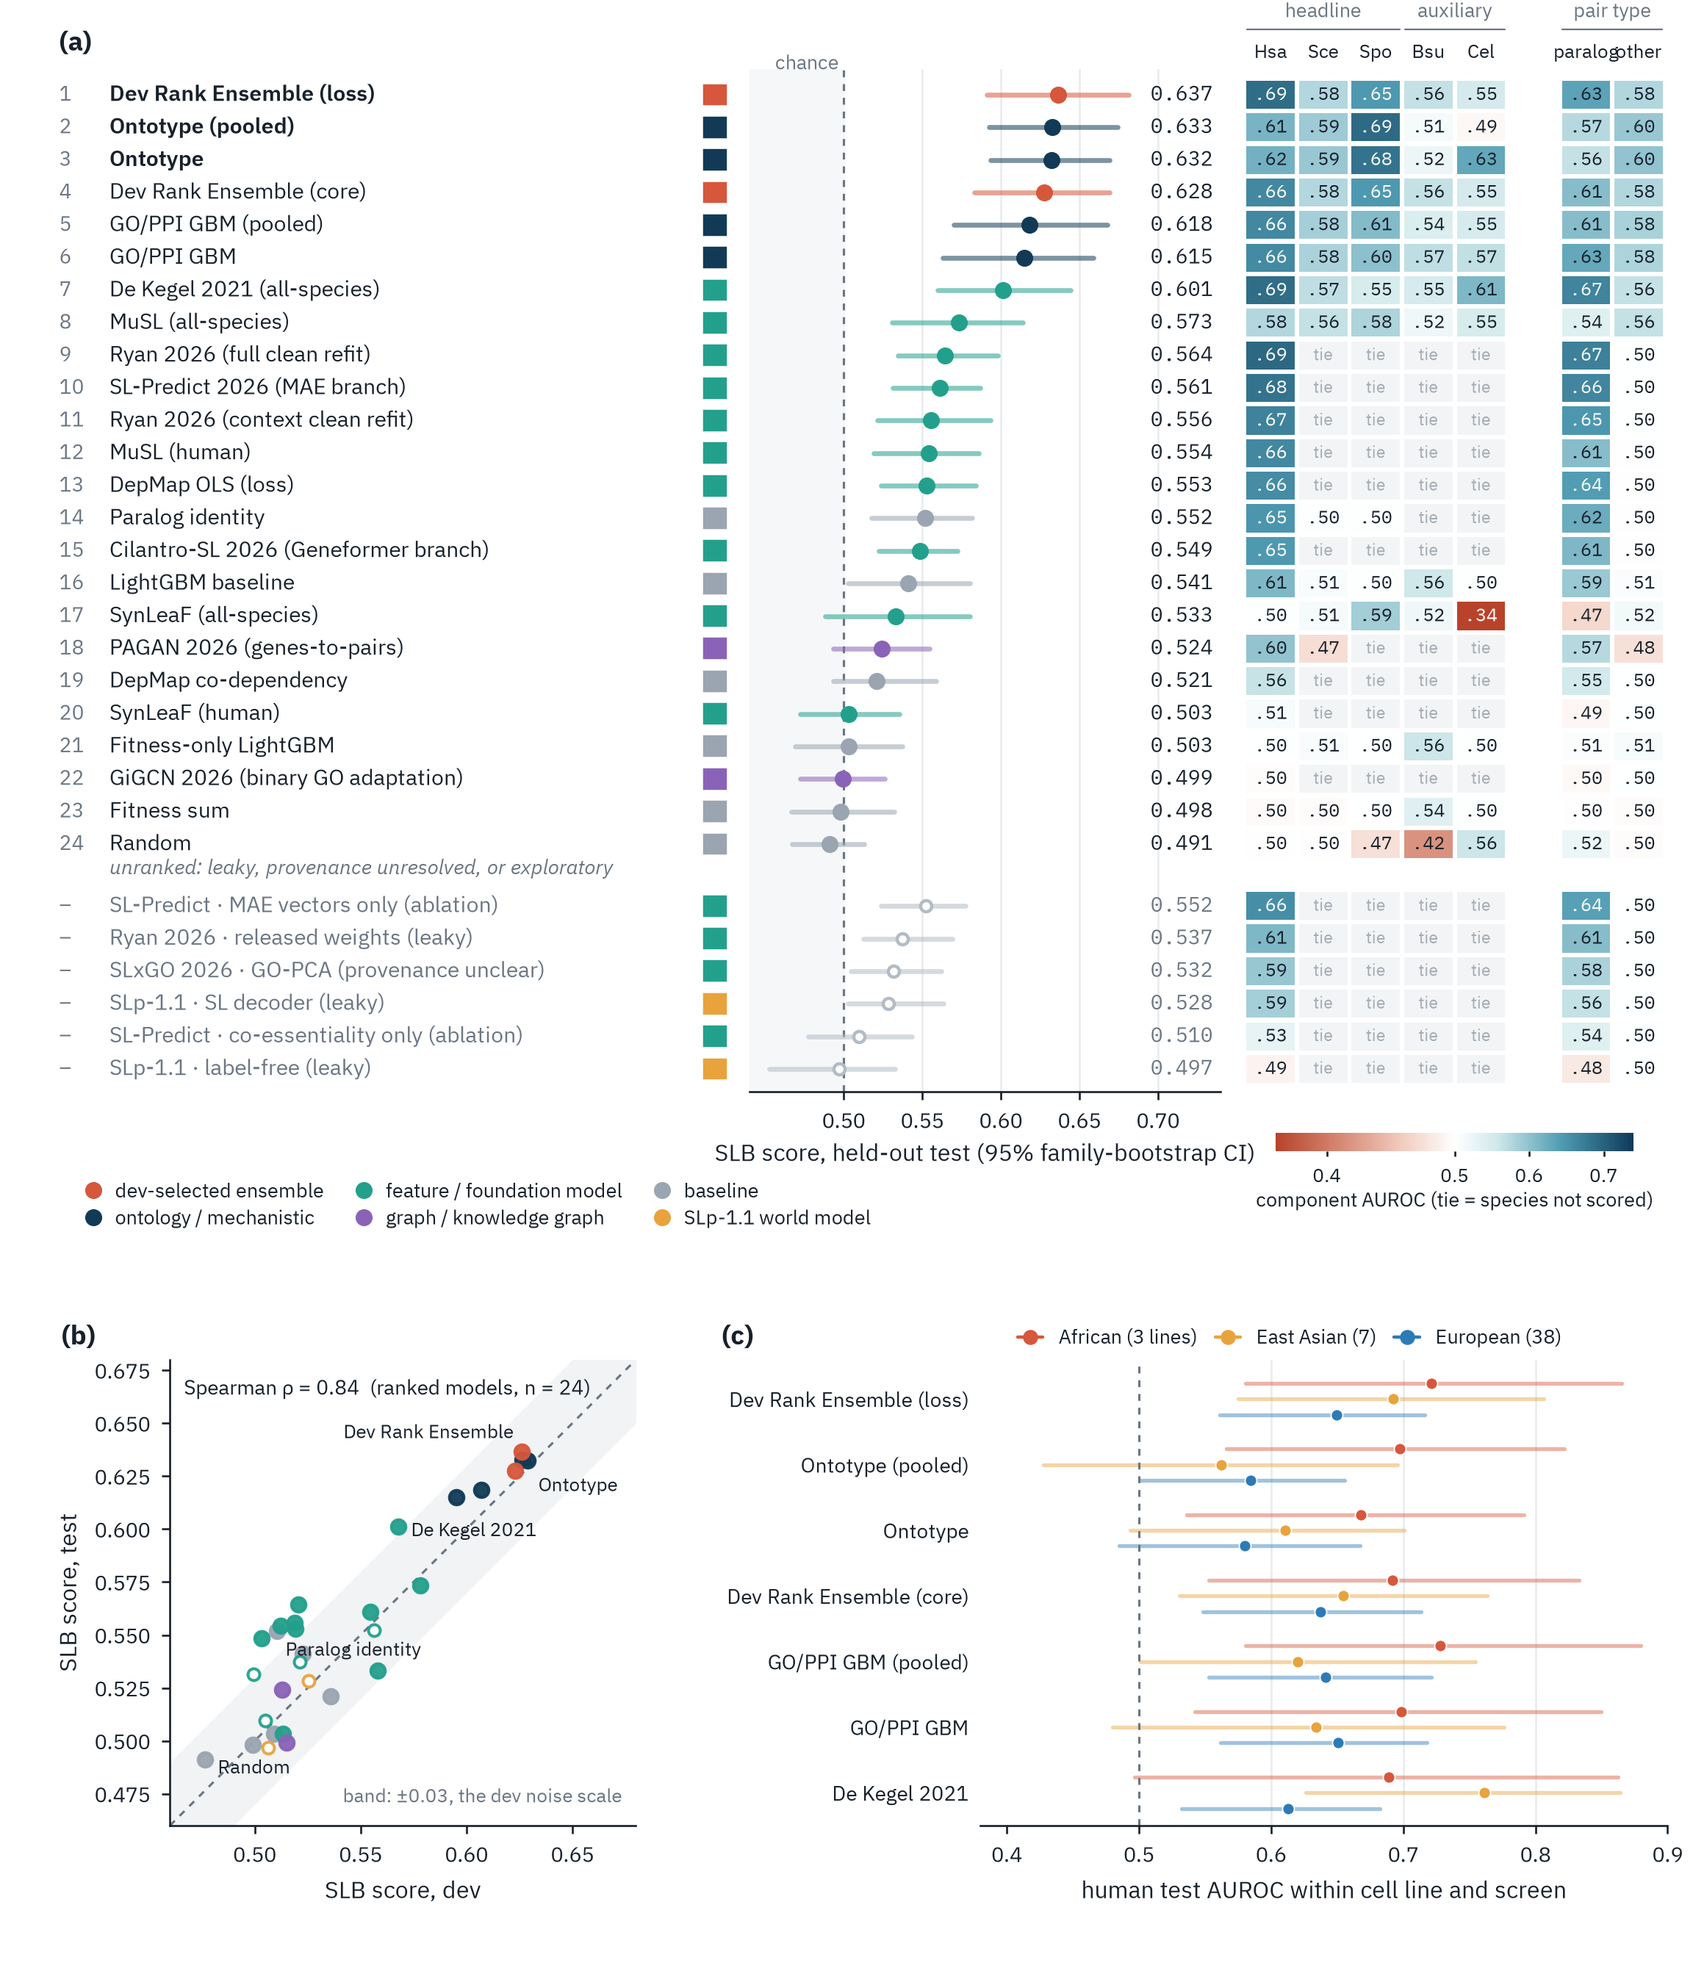
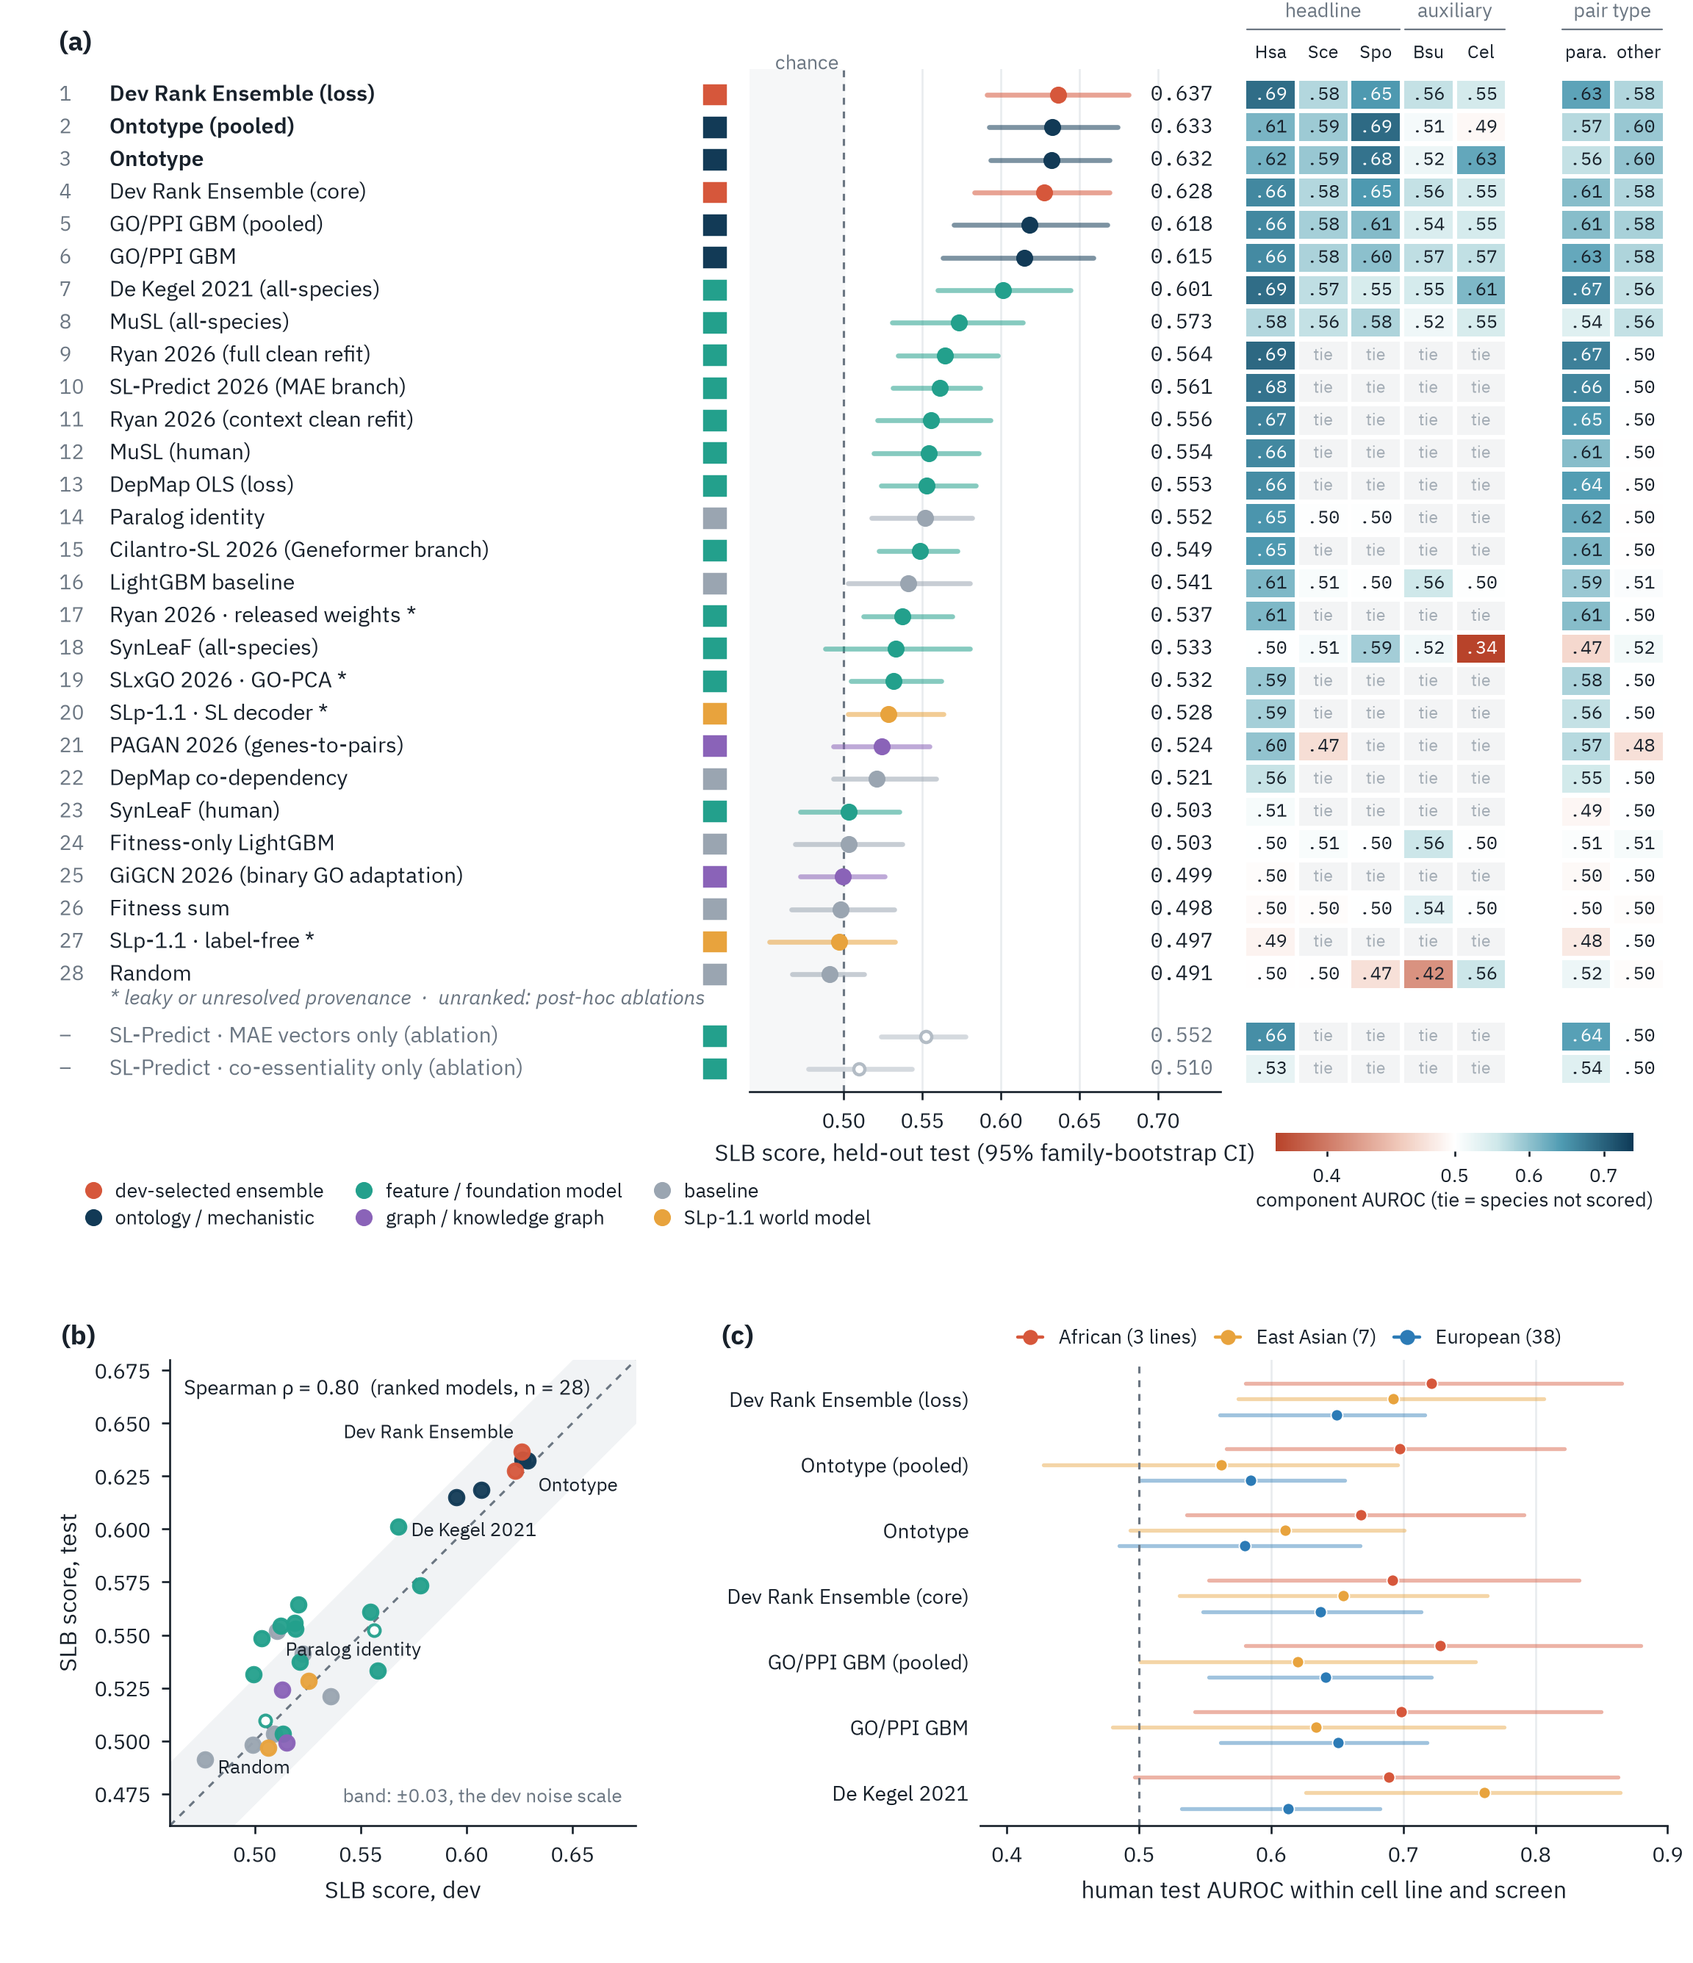
Rank leaky and unresolved-provenance entries on the leaderboard with an asterisk

diff --git a/slb/src/slbench/leaderboard.py b/slb/src/slbench/leaderboard.py
@@ -97,22 +97,21 @@ def render(entries: list[dict], verify_ci: bool | None = None) -> str:
         r = _verified_result(e, verify_ci)
         ci = r.get("slb_score_ci95")
         rows.append((e, r, ci))
-    rows.sort(key=lambda t: (2 if t[0].get("leaky") else
-                             1 if t[0].get("ranked") is False else 0,
-                             -t[1]["slb_score"]))
+    rows.sort(key=lambda t: (1 if t[0].get("ranked") is False else 0, -t[1]["slb_score"]))
     main, aux = species_tiers()
     head = ("| # | model | SLB score (95% CI) | " + " | ".join(main) + " | " + " | ".join(f"*{a}*" for a in aux)
             + " | trained on | leaky |\n|" + "---|" * (5 + len(main) + len(aux)))
     lines = [head]
     rank = 0
     for e, r, ci in rows:
-        rank_s = "–" if e.get("leaky") or e.get("ranked") is False else str(rank := rank + 1)
+        rank_s = "–" if e.get("ranked") is False else str(rank := rank + 1)
         sc = {**r["species_scores"], **r.get("auxiliary_species_scores", {})}
         sp = " | ".join("n/a" if sc.get(s) is None or sc[s] != sc[s] else f"{sc[s]:.3f}" for s in main + aux)
         cis = f" ({ci[0]:.3f}–{ci[1]:.3f})" if ci else ""
         leak = e.get("leaky", False)
         leak_label = "possible" if leak == "possibly" else "yes" if leak else "no"
-        lines.append(f"| {rank_s} | **{e['name']}** — {e.get('description', '')} | {r['slb_score']:.3f}{cis} | "
+        star = "\\*" if leak else ""
+        lines.append(f"| {rank_s} | **{e['name']}**{star} — {e.get('description', '')} | {r['slb_score']:.3f}{cis} | "
                      f"{sp} | {e.get('trained_on', '')} | {leak_label} |")
     return (
         "# SLB leaderboard (test split)\n\n"
@@ -124,8 +123,9 @@ def render(entries: list[dict], verify_ci: bool | None = None) -> str:
         "species: scored the same way, not in the SLB score;\n"
         "n/a = fewer than 20 test positives.\n"
         "Every listed result must match the current benchmark and scorer versions.\n"
-        "Leaky models used SL labels or screens involving held-out genes; 'possible' means input provenance is unresolved. Both are unranked.\n"
-        "Exploratory test ablations after an earlier test readout are also listed unranked.\n\n"
+        "\\* Leaky: the model used SL labels or screens involving held-out genes ('possible': input provenance\n"
+        "unresolved). Ranked for reference, but its score is not a clean held-out result.\n"
+        "Exploratory test ablations after an earlier test readout are listed unranked.\n\n"
         + "\n".join(lines) + "\n"
     )
 

diff --git a/slb/figures/fig4_results.py b/slb/figures/fig4_results.py
@@ -51,7 +51,9 @@ def main() -> None:
     fam = families()
     lb = lb.with_columns(pl.col("name").replace_strict(fam).alias("family"),
                          pl.col("name").replace(PRETTY).alias("label"),
-                         ((pl.col("leaky") == "False") & (pl.col("ranked").cast(pl.String) != "false")).alias("ranked_"))
+                         (pl.col("ranked").cast(pl.String).str.to_lowercase() != "false").alias("ranked_"))
+    lb = lb.with_columns(pl.when(pl.col("leaky") != "False").then(pl.col("label").str.replace(r" \(leaky\)| \(provenance unclear\)", "") + " *")
+                         .otherwise(pl.col("label")).alias("label"))
     ranked = lb.filter(pl.col("ranked_")).sort("slb", descending=True)
     other = lb.filter(~pl.col("ranked_")).sort("slb", descending=True)
     rows = pl.concat([ranked, other])
@@ -77,7 +79,7 @@ def main() -> None:
                  color=S.INK if ranked_ else S.MUTED, fontweight="semibold" if yi < 3 else "normal")
         axn.add_patch(plt.Rectangle((0.965, yi - 0.28), 0.03, 0.56, color=FAMILY_COLOR[r["family"]],
                                     transform=axn.get_yaxis_transform(), clip_on=False))
-    axn.text(0.075, y[n_r] - 1.15, "unranked: leaky, provenance unresolved, or exploratory", fontsize=6.2,
+    axn.text(0.075, y[n_r] - 1.15, "* leaky or unresolved provenance  ·  unranked: post-hoc ablations", fontsize=6.2,
              color=S.MUTED, style="italic", va="center")
     S.panel(axn, "a", x=0.0, y=1.012)
     axn.texts[-1].set_ha("left")
@@ -103,7 +105,7 @@ def main() -> None:
 
     # heatmap of components
     cols = [("sp_human", "Hsa"), ("sp_scer", "Sce"), ("sp_spom", "Spo"), ("sp_bsub", "Bsu"),
-            ("sp_cele", "Cel"), (None, None), ("paralog", "paralog"), ("nonparalog", "other")]
+            ("sp_cele", "Cel"), (None, None), ("paralog", "para."), ("nonparalog", "other")]
     norm = TwoSlopeNorm(vmin=0.36, vcenter=0.5, vmax=0.74)
     for j, (c, lab) in enumerate(cols):
         if c is None:
@@ -121,7 +123,7 @@ def main() -> None:
                          color="white" if dark else S.INK, fontfamily="IBM Plex Mono")
     axh.set_xlim(-0.55, len(cols) - 0.45)
     axh.set_xticks([j for j, (c, _) in enumerate(cols) if c])
-    axh.set_xticklabels([lab for c, lab in cols if c], fontsize=5.9)
+    axh.set_xticklabels([lab for c, lab in cols if c], fontsize=5.6)
     for t, (c, _) in zip(axh.get_xticklabels(), [x for x in cols if x[0]]):
         if c.startswith("sp_"):
             t.set_fontstyle("italic")

diff --git a/slb/tests/test_leaderboard.py b/slb/tests/test_leaderboard.py
@@ -67,9 +67,9 @@ def test_exploratory_test_read_is_registered_but_unranked(monkeypatch):
         {"name": "diagnostic", "score": .8, "ranked": False, "leaky": False},
         {"name": "finalist", "score": .7, "leaky": False},
     ])
-    assert "| 1 | **finalist**" in rendered
+    assert "| 1 | **unresolved**\\*" in rendered and "| possible |" in rendered
+    assert "| 2 | **finalist** —" in rendered
     assert "| – | **diagnostic**" in rendered
-    assert "| – | **unresolved**" in rendered and "| possible |" in rendered
 
 
 def test_leaderboard_rechecks_strata_and_bootstrap_ci(tmp_path, monkeypatch):

diff --git a/slb/README.md b/slb/README.md
@@ -226,8 +226,9 @@ distant paralogs below 30% identity, and orthologs too distant to be reciprocal 
 
 Test split, fitness-balanced AUROC with family-bootstrap 95% CI. Regenerated from `leaderboard.yaml` by
 `slbench leaderboard`, which re-checks every result hash and re-scores every prediction file. Italic
-columns are auxiliary species; n/a = fewer than 20 test positives. Leaky, possibly leaky and
-exploratory entries are unranked (–). The Dev Rank Ensemble recipe (GO/PPI ×2, Ontotype, SynLeaF and
+columns are auxiliary species; n/a = fewer than 20 test positives. \* = leaky (trained on SL labels or
+screens involving held-out genes) or of unresolved input provenance: ranked for reference, not a clean
+held-out result. Exploratory post-hoc ablations are unranked (–). The Dev Rank Ensemble recipe (GO/PPI ×2, Ontotype, SynLeaF and
 De Kegel ranks; the loss variant adds human DepMap OLS) is frozen; re-running its dev search on the current
 split (`reference/dev_rank_ensemble_dev_search.json`) finds no blend more than 0.007 better, a third of
 the dev noise.
@@ -251,20 +252,20 @@ the dev noise.
 | 14 | **paralog_identity** — Ensembl 116 paralog protein identity | 0.552 (0.518–0.582) | 0.649 | 0.504 | 0.502 | 0.500 | 0.500 | n/a | n/a | none | no |
 | 15 | **Cilantro-SL 2026 (Geneformer branch)** — Geneformer in-silico-knockout, viability FiLM and five-fold SLNet refit; human only, 55% native coverage | 0.549 (0.523–0.572) | 0.646 | 0.500 | 0.500 | 0.500 | 0.500 | n/a | n/a | Geneformer/Gene2vec unlabeled pretraining; DepMap single-gene effects; SLB train pairs | no |
 | 16 | **lgbm** — gradient boosting on single-gene fitness, paralog identity, DepMap co-dependency | 0.541 (0.503–0.580) | 0.611 | 0.509 | 0.503 | 0.558 | 0.503 | n/a | n/a | SLB train | no |
-| 17 | **SynLeaF (all-species)** — KG/RGCN branch retrained on the filtered multi-species bundle | 0.533 (0.488–0.580) | 0.500 | 0.512 | 0.588 | 0.520 | 0.342 | n/a | n/a | SLB train + filtered GO/PPI | no |
-| 18 | **PAGAN 2026 (genes-to-pairs)** — essentiality-trained genes-to-pairs GraphSAGE on filtered SLB graph; human and budding yeast, fission yeast tied | 0.524 (0.493–0.555) | 0.599 | 0.474 | 0.500 | 0.500 | 0.500 | n/a | n/a | single-gene essentiality; filtered GO/PPI/paralogs; no SL pair labels | no |
-| 19 | **codependency** — DepMap gene-effect profile correlation (human only) | 0.521 (0.494–0.559) | 0.563 | 0.500 | 0.500 | 0.500 | 0.500 | n/a | n/a | none (single-gene data) | no |
-| 20 | **SynLeaF (human)** — dual-stage omics and KG model; other species tied | 0.503 (0.473–0.535) | 0.510 | 0.500 | 0.500 | 0.500 | 0.500 | n/a | n/a | SLB train + filtered KG/TCGA omics | no |
-| 21 | **fitness_lgbm** — gradient boosting on the single-loss covariates only (probe of residual fitness signal) | 0.503 (0.469–0.537) | 0.500 | 0.508 | 0.501 | 0.559 | 0.503 | n/a | n/a | SLB train | no |
-| 22 | **GiGCN 2026 (binary GO adaptation)** — signed factor graph network refitted on SLB train; binary SL versus neutral with filtered GO features, human only | 0.499 (0.472–0.526) | 0.498 | 0.500 | 0.500 | 0.500 | 0.500 | n/a | n/a | SLB train pairs; filtered GO annotations, no external GI graph | no |
-| 23 | **fitness** — sickness of the two single mutants, -(f_a + f_b) | 0.498 (0.467–0.532) | 0.496 | 0.497 | 0.501 | 0.537 | 0.504 | n/a | n/a | none (single-gene data) | no |
-| 24 | **random** — uniform noise | 0.491 (0.467–0.513) | 0.500 | 0.499 | 0.475 | 0.418 | 0.559 | n/a | n/a | none | no |
+| 17 | **Ryan 2026 (released external-GEMINI weights, leakage diagnostic)**\* — released classifier trained on external GEMINI SL screens overlapping held-out families | 0.537 (0.512–0.569) | 0.612 | 0.500 | 0.500 | 0.500 | 0.500 | n/a | n/a | external GEMINI labels, including source screens used by SLB | yes |
+| 18 | **SynLeaF (all-species)** — KG/RGCN branch retrained on the filtered multi-species bundle | 0.533 (0.488–0.580) | 0.500 | 0.512 | 0.588 | 0.520 | 0.342 | n/a | n/a | SLB train + filtered GO/PPI | no |
+| 19 | **SLxGO 2026 (GO-PCA branch, input provenance unresolved)**\* — released GO-PCA embedding branch, refitted on SLB train; GO evidence provenance unavailable | 0.532 (0.505–0.562) | 0.595 | 0.500 | 0.500 | 0.500 | 0.500 | n/a | n/a | authors' GO-PCA vectors; SLB train pairs | possible |
+| 20 | **SLp-1.1 (decoder)**\* — prior abiome world model + LightGBM SL decoders (10 decoders from its MuSL gene-held-out folds, averaged); human only, 43% of human test pairs in vocabulary (rest tied) | 0.528 (0.503–0.564) | 0.585 | 0.500 | 0.500 | 0.500 | 0.500 | n/a | n/a | MuSL/SynLethDB SL labels; DepMap; Costanzo yeast (25% sample) | yes |
+| 21 | **PAGAN 2026 (genes-to-pairs)** — essentiality-trained genes-to-pairs GraphSAGE on filtered SLB graph; human and budding yeast, fission yeast tied | 0.524 (0.493–0.555) | 0.599 | 0.474 | 0.500 | 0.500 | 0.500 | n/a | n/a | single-gene essentiality; filtered GO/PPI/paralogs; no SL pair labels | no |
+| 22 | **codependency** — DepMap gene-effect profile correlation (human only) | 0.521 (0.494–0.559) | 0.563 | 0.500 | 0.500 | 0.500 | 0.500 | n/a | n/a | none (single-gene data) | no |
+| 23 | **SynLeaF (human)** — dual-stage omics and KG model; other species tied | 0.503 (0.473–0.535) | 0.510 | 0.500 | 0.500 | 0.500 | 0.500 | n/a | n/a | SLB train + filtered KG/TCGA omics | no |
+| 24 | **fitness_lgbm** — gradient boosting on the single-loss covariates only (probe of residual fitness signal) | 0.503 (0.469–0.537) | 0.500 | 0.508 | 0.501 | 0.559 | 0.503 | n/a | n/a | SLB train | no |
+| 25 | **GiGCN 2026 (binary GO adaptation)** — signed factor graph network refitted on SLB train; binary SL versus neutral with filtered GO features, human only | 0.499 (0.472–0.526) | 0.498 | 0.500 | 0.500 | 0.500 | 0.500 | n/a | n/a | SLB train pairs; filtered GO annotations, no external GI graph | no |
+| 26 | **fitness** — sickness of the two single mutants, -(f_a + f_b) | 0.498 (0.467–0.532) | 0.496 | 0.497 | 0.501 | 0.537 | 0.504 | n/a | n/a | none (single-gene data) | no |
+| 27 | **SLp-1.1 (label-free)**\* — prior abiome world model, fixed excess-fitness-loss readout (no SL labels); human only, 43% coverage | 0.497 (0.453–0.533) | 0.491 | 0.500 | 0.500 | 0.500 | 0.500 | n/a | n/a | DepMap; Costanzo yeast (25% sample); Perturb-seq | yes |
+| 28 | **random** — uniform noise | 0.491 (0.467–0.513) | 0.500 | 0.499 | 0.475 | 0.418 | 0.559 | n/a | n/a | none | no |
 | – | **SL-Predict MAE vectors only (exploratory test ablation)** — feature-group ablation run after full-branch test inspection; human only | 0.552 (0.524–0.578) | 0.656 | 0.500 | 0.500 | 0.500 | 0.500 | n/a | n/a | DepMap 26Q1 single-gene profiles; SLB train pairs | no |
 | – | **SL-Predict coessentiality only (exploratory test ablation)** — feature-group ablation run after full-branch test inspection; human only | 0.510 (0.478–0.543) | 0.529 | 0.500 | 0.500 | 0.500 | 0.500 | n/a | n/a | DepMap 26Q1 single-gene profiles; SLB train pairs | no |
-| – | **Ryan 2026 (released external-GEMINI weights, leakage diagnostic)** — released classifier trained on external GEMINI SL screens overlapping held-out families | 0.537 (0.512–0.569) | 0.612 | 0.500 | 0.500 | 0.500 | 0.500 | n/a | n/a | external GEMINI labels, including source screens used by SLB | yes |
-| – | **SLxGO 2026 (GO-PCA branch, input provenance unresolved)** — released GO-PCA embedding branch, refitted on SLB train; GO evidence provenance unavailable | 0.532 (0.505–0.562) | 0.595 | 0.500 | 0.500 | 0.500 | 0.500 | n/a | n/a | authors' GO-PCA vectors; SLB train pairs | possible |
-| – | **SLp-1.1 (decoder)** — prior abiome world model + LightGBM SL decoders (10 decoders from its MuSL gene-held-out folds, averaged); human only, 43% of human test pairs in vocabulary (rest tied) | 0.528 (0.503–0.564) | 0.585 | 0.500 | 0.500 | 0.500 | 0.500 | n/a | n/a | MuSL/SynLethDB SL labels; DepMap; Costanzo yeast (25% sample) | yes |
-| – | **SLp-1.1 (label-free)** — prior abiome world model, fixed excess-fitness-loss readout (no SL labels); human only, 43% coverage | 0.497 (0.453–0.533) | 0.491 | 0.500 | 0.500 | 0.500 | 0.500 | n/a | n/a | DepMap; Costanzo yeast (25% sample); Perturb-seq | yes |
 <!-- leaderboard:end -->
 
 **Human ancestry.** `scripts/audit_ancestry.py` scores frozen test predictions per cell-line ancestry
